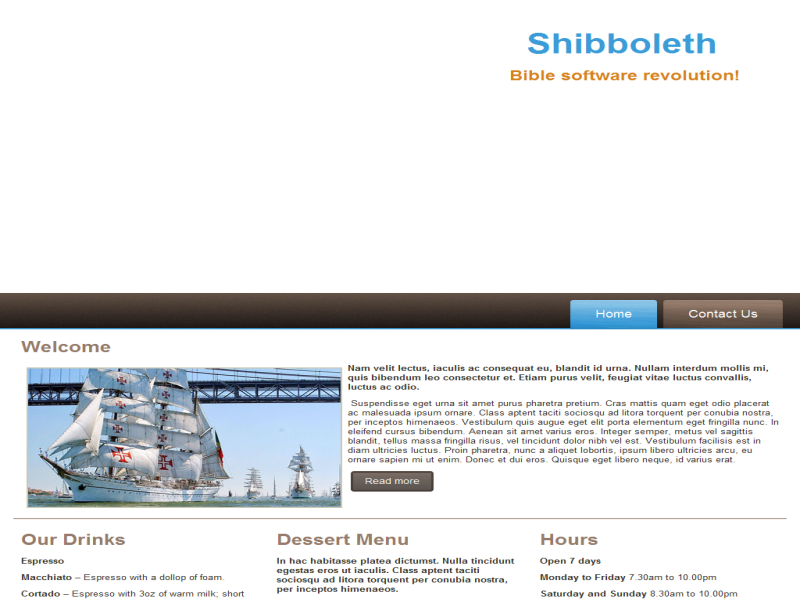
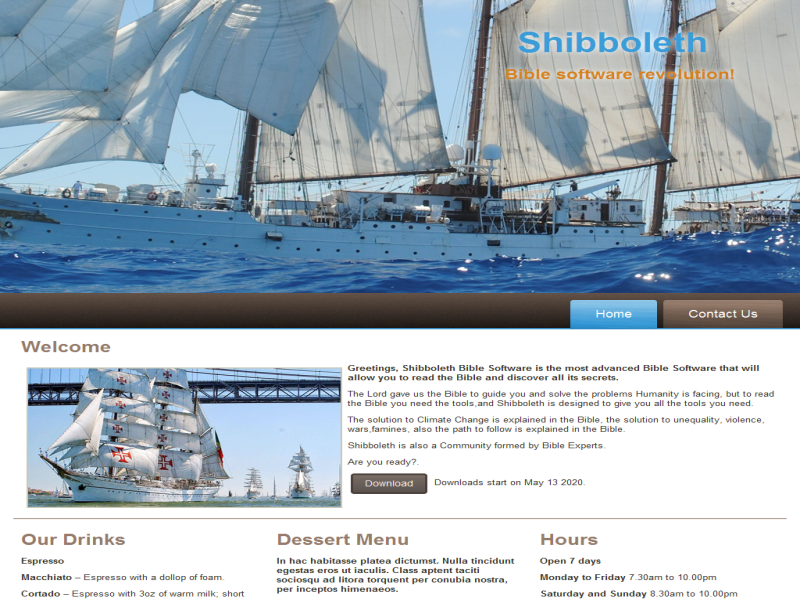
5

diff --git a/index.html b/index.html
@@ -60,9 +60,9 @@
         <p><img style="float: left; margin-top: 7px; margin-right: 7px; margin-bottom: 7px; margin-left: 7px; border-top-style: solid; border-right-style: solid; border-bottom-style: solid; border-left-style: solid; border-top-color: rgb(202, 199, 180); border-right-color: rgb(202, 199, 180); border-bottom-color: rgb(202, 199, 180); border-left-color: rgb(202, 199, 180); border-top-width: 2px; border-right-width: 2px; border-bottom-width: 2px; border-left-width: 2px; " width="400" height="236" alt="" class="art-lightbox" src="images/24a97328-77b2-47aa-8dc5-d552c528ea3d.png">
         </p><p>
         </p><p>
-        </p><p><span style="font-weight: bold;">Nam velit lectus, iaculis ac consequat eu, blandit id urna. Nullam interdum mollis mi, quis bibendum leo consectetur et. Etiam purus velit, feugiat vitae luctus convallis, luctus ac odio.</span></p>
-        <p>&nbsp;Suspendisse eget urna sit amet purus pharetra pretium. Cras mattis quam eget odio placerat ac malesuada ipsum ornare. Class aptent taciti sociosqu ad litora torquent per conubia nostra, per inceptos himenaeos. Vestibulum quis augue eget elit porta elementum eget fringilla nunc. In eleifend cursus bibendum. Aenean sit amet varius eros. Integer semper, metus vel sagittis blandit, tellus massa fringilla risus, vel tincidunt dolor nibh vel est. Vestibulum facilisis est in diam ultricies luctus. Proin pharetra, nunc a aliquet lobortis, ipsum libero ultricies arcu, eu ornare sapien mi ut enim. Donec et dui eros. Quisque eget libero neque, id varius erat.<br></p>
-        <p>&nbsp;<a href="#" class="art-button">Read more</a>&nbsp;<br></p>
+        </p><p><span style="font-weight: bold;">Greetings, Shibboleth Bible Software is the most advanced Bible Software that will allow you to read the Bible and discover all its secrets.</span></p>
+        <p>The Lord gave us the Bible to guide you and solve the problems Humanity is facing, but to read the Bible you need the tools,and Shibboleth is designed to give you all the tools you need.<br></p><p>The solution to Climate Change is explained in the Bible, the solution to unequality, violence, wars,famines, also the path to follow is explained in the Bible.</p><p>Shibboleth is also a Community formed by Bible Experts.</p><p>Are you ready?.</p>
+        <p>&nbsp;<a href="#" class="art-button">Download</a>&nbsp;Downloads start on May 13 2020.<br></p>
     </div>
     </div>
 </div>
@@ -126,7 +126,7 @@
 <div class="art-content-layout">
     <div class="art-content-layout-row">
     <div class="art-layout-cell layout-item-0" style="width: 12%">
-        <p><a href="#" class="art-rss-tag-icon" style="line-height: 38px; ">RSS</a><br></p>
+        <p><a href="#" class="art-rss-tag-icon" style="line-height: 38px;">RSS</a><br></p>
     </div><div class="art-layout-cell layout-item-1" style="width: 88%">
         <p>Shibboleth Bible Software 2020</p>
     </div>

diff --git a/new-page.html b/new-page.html
@@ -60,9 +60,9 @@
         <p><img style="float: left; margin-top: 7px; margin-right: 7px; margin-bottom: 7px; margin-left: 7px; border-top-style: solid; border-right-style: solid; border-bottom-style: solid; border-left-style: solid; border-top-color: rgb(202, 199, 180); border-right-color: rgb(202, 199, 180); border-bottom-color: rgb(202, 199, 180); border-left-color: rgb(202, 199, 180); border-top-width: 2px; border-right-width: 2px; border-bottom-width: 2px; border-left-width: 2px; " width="400" height="236" alt="" class="art-lightbox" src="images/24a97328-77b2-47aa-8dc5-d552c528ea3d.png">
         </p><p>
         </p><p>
-        </p><p><span style="font-weight: bold;">Nam velit lectus, iaculis ac consequat eu, blandit id urna. Nullam interdum mollis mi, quis bibendum leo consectetur et. Etiam purus velit, feugiat vitae luctus convallis, luctus ac odio.</span></p>
-        <p>&nbsp;Suspendisse eget urna sit amet purus pharetra pretium. Cras mattis quam eget odio placerat ac malesuada ipsum ornare. Class aptent taciti sociosqu ad litora torquent per conubia nostra, per inceptos himenaeos. Vestibulum quis augue eget elit porta elementum eget fringilla nunc. In eleifend cursus bibendum. Aenean sit amet varius eros. Integer semper, metus vel sagittis blandit, tellus massa fringilla risus, vel tincidunt dolor nibh vel est. Vestibulum facilisis est in diam ultricies luctus. Proin pharetra, nunc a aliquet lobortis, ipsum libero ultricies arcu, eu ornare sapien mi ut enim. Donec et dui eros. Quisque eget libero neque, id varius erat.<br></p>
-        <p>&nbsp;<a href="#" class="art-button">Read more</a>&nbsp;<br></p>
+        </p><p><span style="font-weight: bold;">Greetings, Shibboleth Bible Software is the most advanced Bible Software that will allow you to read the Bible and discover all its secrets.</span></p>
+        <p>The Lord gave us the Bible to guide you and solve the problems Humanity is facing, but to read the Bible you need the tools,and Shibboleth is designed to give you all the tools you need.<br></p><p>The solution to Climate Change is explained in the Bible, the solution to unequality, violence, wars,famines, also the path to follow is explained in the Bible.</p><p>Shibboleth is also a Community formed by Bible Experts.</p><p>Are you ready?.</p>
+        <p>&nbsp;<a href="#" class="art-button">Download</a>&nbsp;Downloads start on May 13 2020.<br></p>
     </div>
     </div>
 </div>
@@ -126,7 +126,7 @@
 <div class="art-content-layout">
     <div class="art-content-layout-row">
     <div class="art-layout-cell layout-item-0" style="width: 12%">
-        <p><a href="#" class="art-rss-tag-icon" style="line-height: 38px; ">RSS</a><br></p>
+        <p><a href="#" class="art-rss-tag-icon" style="line-height: 38px;">RSS</a><br></p>
     </div><div class="art-layout-cell layout-item-1" style="width: 88%">
         <p>Shibboleth Bible Software 2020</p>
     </div>

diff --git a/new-page-2.html b/new-page-2.html
@@ -77,7 +77,7 @@ E: &nbsp;<a href="mailto:email@domain.com">email@domain.com</a></p>
 <div class="art-content-layout">
     <div class="art-content-layout-row">
     <div class="art-layout-cell layout-item-0" style="width: 12%">
-        <p><a href="#" class="art-rss-tag-icon" style="line-height: 38px; ">RSS</a><br></p>
+        <p><a href="#" class="art-rss-tag-icon" style="line-height: 38px;">RSS</a><br></p>
     </div><div class="art-layout-cell layout-item-1" style="width: 88%">
         <p>Shibboleth Bible Software 2020</p>
     </div>

diff --git a/new-page/new-page-2.html b/new-page/new-page-2.html
@@ -62,7 +62,7 @@
 <div class="art-content-layout">
     <div class="art-content-layout-row">
     <div class="art-layout-cell layout-item-0" style="width: 12%">
-        <p><a href="#" class="art-rss-tag-icon" style="line-height: 38px; ">RSS</a><br></p>
+        <p><a href="#" class="art-rss-tag-icon" style="line-height: 38px;">RSS</a><br></p>
     </div><div class="art-layout-cell layout-item-1" style="width: 88%">
         <p>Shibboleth Bible Software 2020</p>
     </div>

diff --git a/new-page/new-page-3.html b/new-page/new-page-3.html
@@ -62,7 +62,7 @@
 <div class="art-content-layout">
     <div class="art-content-layout-row">
     <div class="art-layout-cell layout-item-0" style="width: 12%">
-        <p><a href="#" class="art-rss-tag-icon" style="line-height: 38px; ">RSS</a><br></p>
+        <p><a href="#" class="art-rss-tag-icon" style="line-height: 38px;">RSS</a><br></p>
     </div><div class="art-layout-cell layout-item-1" style="width: 88%">
         <p>Shibboleth Bible Software 2020</p>
     </div>

diff --git a/new-page/new-page.html b/new-page/new-page.html
@@ -62,7 +62,7 @@
 <div class="art-content-layout">
     <div class="art-content-layout-row">
     <div class="art-layout-cell layout-item-0" style="width: 12%">
-        <p><a href="#" class="art-rss-tag-icon" style="line-height: 38px; ">RSS</a><br></p>
+        <p><a href="#" class="art-rss-tag-icon" style="line-height: 38px;">RSS</a><br></p>
     </div><div class="art-layout-cell layout-item-1" style="width: 88%">
         <p>Shibboleth Bible Software 2020</p>
     </div>
